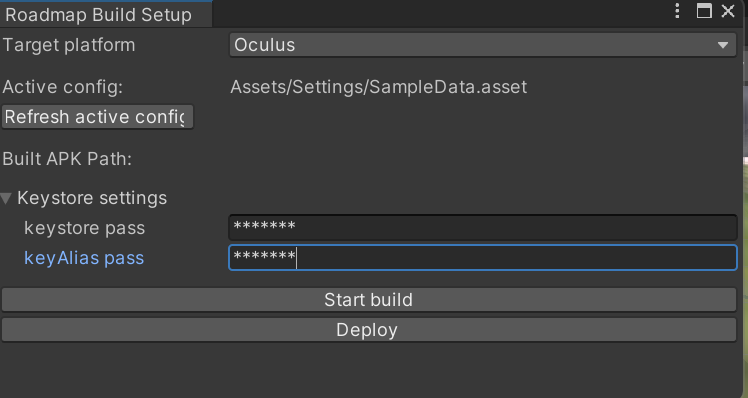
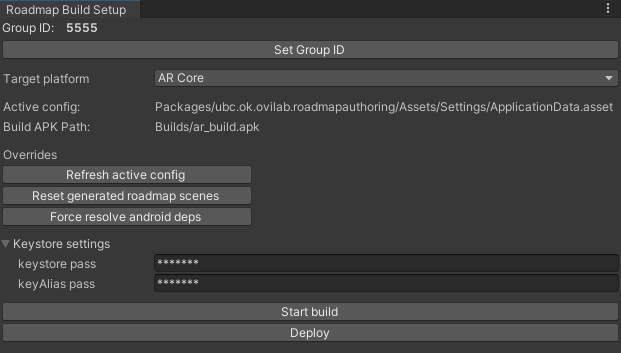
Update documentation

diff --git a/Documentation~/docs/usage.md b/Documentation~/docs/usage.md
@@ -38,6 +38,10 @@ You can build and deploy the project using the roadmap build setup. Select the a
 
 Note that, the application builds the pre-configured scenes shipped with the package, not any of the scenes in the project.
 
+Under the hood, the build setup generates scenes which then built for the given platform. The `Reset generated roadmap scenes` would reset these scenes to the default values, in case something wrong had happened. 
+
+Also, there is a existing bug with the android resolver, which doesn't function correctly now and then. In case you have issues with building (e.g., build stuck on "Building Scene 0..."), you can use the `Force resolve android deps` option on the build settings which forces this. After that, you may want to consider enabling `Auto-resolution` (`Assets` > `External Dependancy Manager` > `Android Resolver` > `Settings` > `Auto-resolution`)
+
 ## Authoring scene
 
 You can author scenes on VR application (Oculus Quest), AR application (Android AR Core) and in editor. For propper synchronization, ensure the applications are built with the same application config activated. To author in editor, make a copy of the VR scene in `Assets/Scenes/VR_Scene.unity`. The template proejct already has an copy of these scene setup named `[DoNotEdit]SceneForInEditorTesting`

diff --git a/Documentation~/docs/setup.md b/Documentation~/docs/setup.md
@@ -2,10 +2,20 @@
 
 ## Installation
 
+You need to make sure you have git installed and accessible system wide.
+
 ### Using template project
 The template repository in [https://github.com/ovi-lab/RoadmapAuthoring-template](https://github.com/ovi-lab/RoadmapAuthoring-template) is pre configured with the packages and settings required to use this package.
 
+<div class="image">
+    <img src="https://raw.githubusercontent.com/ovi-lab/RoadmapAuthoring/master/Documentation~/figures/docs/template.png" alt="template project on github">
+    <div class="caption"> Template project on github. Click on the `Use this template` to create a repo from this template. You also have to the option to download this as a zip file.</div>
+</div>
+
+
 ### Manual installation
+**NOTE**: This is only necessary if the package is being installed manually without using the template proejct.
+
 You would need the following package installed:
 - Install as a git package: https://github.com/ovi-lab/arcore-unity-extensions
 - MRTK3 (all MRTK 3 packages & the Mixed Reality OpenXR plugin) installed with the [Mixed Reality Feature Tool](https://www.microsoft.com/en-us/download/details.aspx?id=102778)
